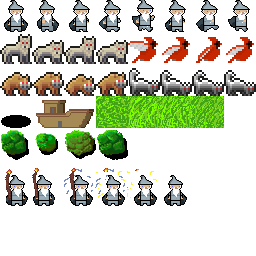
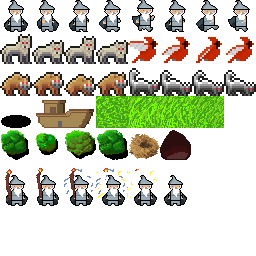
Adds in spawners for friendlies, which is bird nest and wolf den for now, adds setup phase before wave starts so you can place spawners around.

Changed region(s): [[0.5, 0.5, 0.75, 0.625], [0.125, 0.6562, 0.25, 0.8125]]

diff --git a/game.js b/game.js
@@ -9,10 +9,12 @@
 // show the LittleJS splash screen
 //setShowSplashScreen(true);
 
-let gameStarted, spriteAtlas, waveNumber, waveStarted, waveTimer, waveFinished, enemySpawnTimer, friendlySpawnTimer, noah, ark, friendlies, enemies;
+let gameStarted, spriteAtlas, setupPhase, setupPhaseTimer, waveNumber, waveStarted, waveTimer, waveFinished, enemySpawnTimer, friendlySpawnTimer, noah, ark, friendlies, enemies;
 let grassTiles, treeTiles, grassLayer, treeLayer;
+let totalEnemiesKilled, enemiesKilledInWave;
 const levelSize = vec2(42, 24);
-let waveTimeDefault = 5.0;
+let setupTimeDefault = 20.0;
+let waveTimeDefault = 25.0;
 let enemySpawnTimeDefault = 2.0;
 const friendlySpawnTimeDefault = 2.0;
 const maxFriendliesAllowed = 1;
@@ -30,7 +32,7 @@ const snd_noah_cast = new Sound([3.3,,529,.08,.44,.39,,3.4,-1,,,,.09,,,.1,.09,.9
 
 class Noah extends EngineObject {
     constructor(pos) {
-        super(pos, vec2(1.5,1.5));
+        super(pos, vec2(1,1));
 
         this.setCollision();
 
@@ -43,6 +45,7 @@ class Noah extends EngineObject {
         this.attackTimerDefault = 0.8;
         this.spawnRange = 3.0;
         this.showSpawnRange = true;
+        this.spawnersAllowed = 1;
         this.color = rgb(1, 1, 1, 1);
         this.animationFrame = 0;
         this.frameTime = 0.1;
@@ -57,7 +60,7 @@ class Noah extends EngineObject {
         this.currentFrame = 0;
         this.frameOffset = 0;
         this.maxFrames = 0;
-        this.drawSize = vec2(1.5,1.5);
+        this.drawSize = vec2(1,1);
     }
 
     update() {
@@ -94,9 +97,9 @@ class Noah extends EngineObject {
 
         if(this.isCasting) {
             this.state = 'casting';
-            this.drawSize = vec2(1.5,3);
+            this.drawSize = vec2(1,2);
         } else {
-            this.drawSize = vec2(1.5,1.5);
+            this.drawSize = vec2(1,1);
         }
 
         super.update();
@@ -165,7 +168,7 @@ class Noah extends EngineObject {
         }
 
         // draw shadow
-        drawTile(vec2(this.pos.x, this.pos.y-0.4), vec2(1.2,1.2), spriteAtlas.shadow, rgb(1,1,1,0.6), this.angle, this.mirror);
+        drawTile(vec2(this.pos.x, this.pos.y-0.2), vec2(0.8,0.8), spriteAtlas.shadow, rgb(1,1,1,0.6), this.angle, this.mirror);
         // draw character
         drawTile(this.pos, this.drawSize, this.tileInfo, this.color, this.angle, this.mirror);
         
@@ -492,6 +495,63 @@ class Cardinal extends FriendlyAnimal {
     }
 }
 
+class Spawner extends EngineObject {
+    constructor(pos, spriteRef) {
+        super(pos, vec2(1,1), spriteRef);
+
+        this.spawnTime = 5.0;
+        this.spawnTimer = 0;
+    }
+}
+
+class BirdNest extends Spawner {
+    constructor(pos) {
+        super(pos, spriteAtlas.nest);
+    }
+
+    update() {
+        if(waveStarted && !this.spawnTimer) {
+            this.spawnTimer = new Timer(this.spawnTime);
+        }
+
+        if(setupPhase) {
+            this.spawnTimer = 0;
+        }
+
+        if(this.spawnTimer && this.spawnTimer.elapsed()) {
+            friendlies.push(new Cardinal(this.pos));
+
+            this.spawnTimer = new Timer(this.spawnTime);
+        }
+
+        super.update();
+    }
+}
+
+class WolfDen extends Spawner {
+    constructor(pos) {
+        super(pos, spriteAtlas.cave);
+    }
+
+    update() {
+        if(waveStarted && !this.spawnTimer) {
+            this.spawnTimer = new Timer(this.spawnTime);
+        }
+
+        if(setupPhase) {
+            this.spawnTimer = 0;
+        }
+        
+        if(this.spawnTimer && this.spawnTimer.elapsed()) {
+            friendlies.push(new Wolf(this.pos));
+
+            this.spawnTimer = new Timer(this.spawnTime);
+        }
+
+        super.update();
+    }
+}
+
 function findFriendlyById(id) {
     for (let i=0;i<friendlies.length;i++) {
         if(friendlies[i].id == id) {
@@ -534,6 +594,8 @@ function gameInit()
         tree2: tile(32,32),
         tree3: tile(33,32),
         tree4: tile(34,32),
+        nest: tile(36,32),
+        cave: tile(37,32),
         playerCast: new TileInfo(vec2(0,160), vec2(32,64)),
 
         // small tiles
@@ -563,14 +625,10 @@ function gameInit()
         }
     }
 
-    gameStarted = false;
-    waveStarted = false;
-    waveNumber = 0;
-    waveTimer = 0.0;
-    waveFinished = false;
-
     friendlies = [];
     enemies = [];
+
+    newGame();
     
     cameraPos = levelSize.scale(.5);
 }
@@ -634,6 +692,24 @@ function gameUpdate()
                 
             }
         }
+    } else {
+        if(setupPhase) {
+            if(mouseWasPressed(0)) {
+                noah.target = mousePos;
+            }
+
+            if(mouseWasPressed(1)) {
+                new BirdNest(mousePos);
+            }
+
+            if(mouseWasPressed(2)) {
+                new WolfDen(mousePos);
+            }
+        }
+
+        if(setupPhase && setupPhaseTimer.elapsed()) {
+            startWave();
+        }
     }
 
     if(waveFinished) {
@@ -648,13 +724,18 @@ function gameUpdate()
         ark = new Ark(vec2(levelSize.x/2, levelSize.y/2));
         console.log("Ark made");
 
+        if(noah) {
+            noah.destroy();
+        }
+
         noah = new Noah(vec2(levelSize.x/2, levelSize.y/2-5));
         console.log("Noah made");
     
         startLevel();
         console.log("Level started");
-    } else if(!waveStarted && mouseWasPressed(0)) {
-        startWave();
+    } else if(!waveStarted && mouseWasPressed(0) && !setupPhase) {
+        setupPhase = true;
+        setupPhaseTimer = new Timer(setupTimeDefault);
     } else if(gameStarted && waveStarted && !ark && mouseWasPressed(0)) {
         newGame();
     }
@@ -668,9 +749,16 @@ function startLevel() {
     enemySpawnTimeDefault -= 0.1;
 
     waveStarted = false;
+
+    setupPhase = true;
+    setupPhaseTimer = new Timer(setupTimeDefault);
+
+    resetAnimals();
 }
 
 function startWave() {
+    setupPhase = false;
+    enemiesKilledInWave = 0;
     waveStarted = true;
     console.log("Wave started");
     waveTimer = new Timer(waveTimeDefault);
@@ -682,6 +770,8 @@ function startWave() {
 function newGame() {
     resetAnimals();
 
+    totalEnemiesKilled = 0;
+    enemiesKilledInWave = 0;
     waveStarted = false;
     gameStarted = false;
     waveNumber = 0;
@@ -744,14 +834,20 @@ function gameRenderPost()
     if (!gameStarted) {
         drawTextScreen('Noah\'s Ark', mainCanvasSize.scale(.5), 80);
         drawTextScreen('Click to Start!', mainCanvasSize.scale(.5).add(vec2(0,60)), 20);
-    } else if (gameStarted && !waveStarted) {
+    } else if (gameStarted && !waveStarted && !setupPhase) {
         if (!ark) {
             drawTextScreen('You Lose!', mainCanvasSize.scale(.5), 80);
             drawTextScreen('Click to Play Again!', mainCanvasSize.scale(.5).add(vec2(0,60)), 20);
         } else {
             drawTextScreen('Wave ' + waveNumber, mainCanvasSize.scale(.5), 80);
-            drawTextScreen('Click to Start Wave!', mainCanvasSize.scale(.5).add(vec2(0,60)), 20);
+            drawTextScreen('Click to Start Setup before Wave!', mainCanvasSize.scale(.5).add(vec2(0,60)), 20);
         }
+    } else if (gameStarted && !waveStarted && setupPhase) {
+        if(setupPhaseTimer) {
+            drawTextScreen('Setup Time Remaining: ' + formatTime(abs(setupPhaseTimer.get())), vec2(mainCanvasSize.x/2, mainCanvasSize.y-20), 30);
+        }
+
+        drawRect(mousePos, vec2(0.5, 0.5), rgb(0,1,0,0.8));
     } else if (gameStarted && waveStarted) {
         if (!ark) {
             drawTextScreen('You Lose!', mainCanvasSize.scale(.5), 80);
